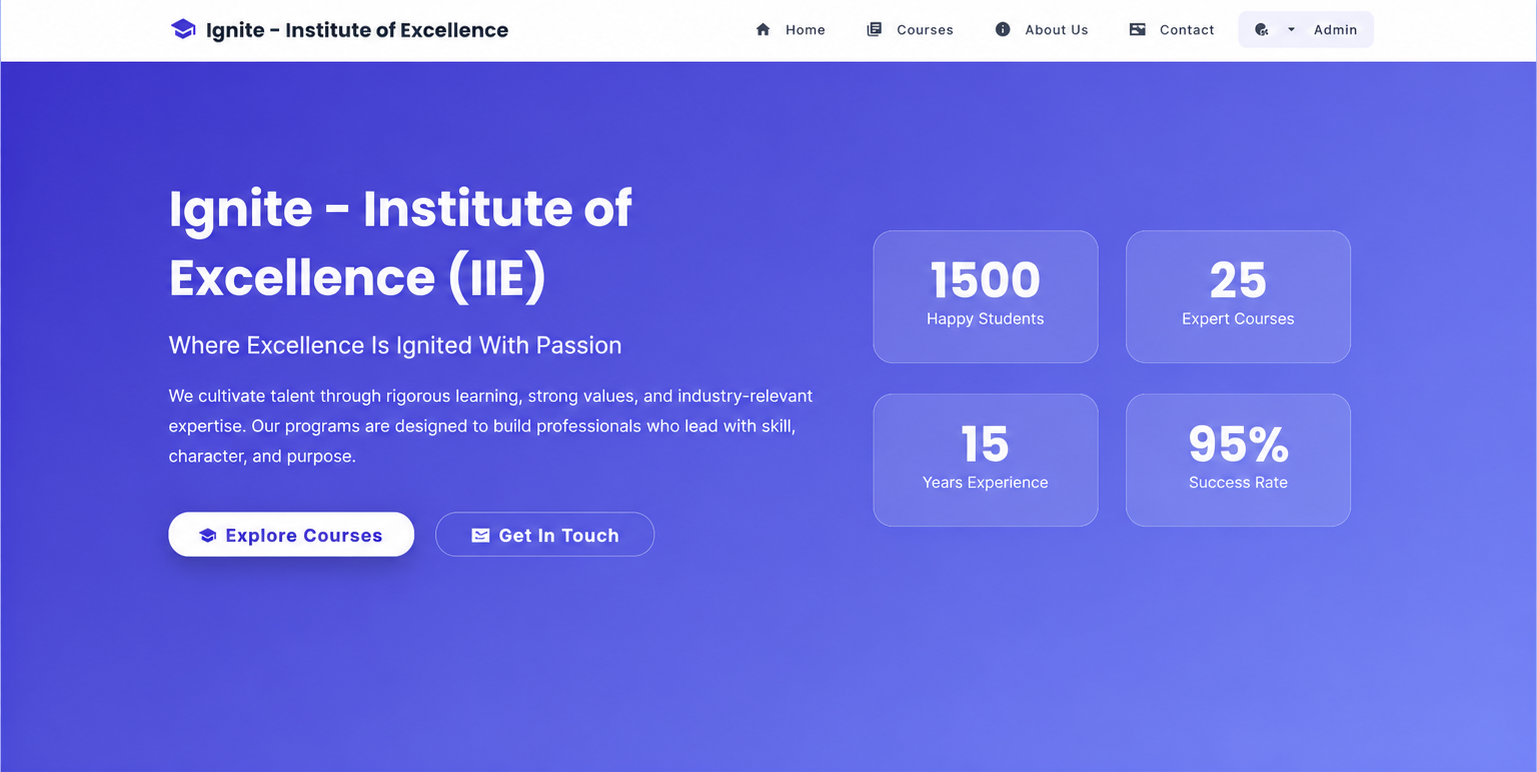
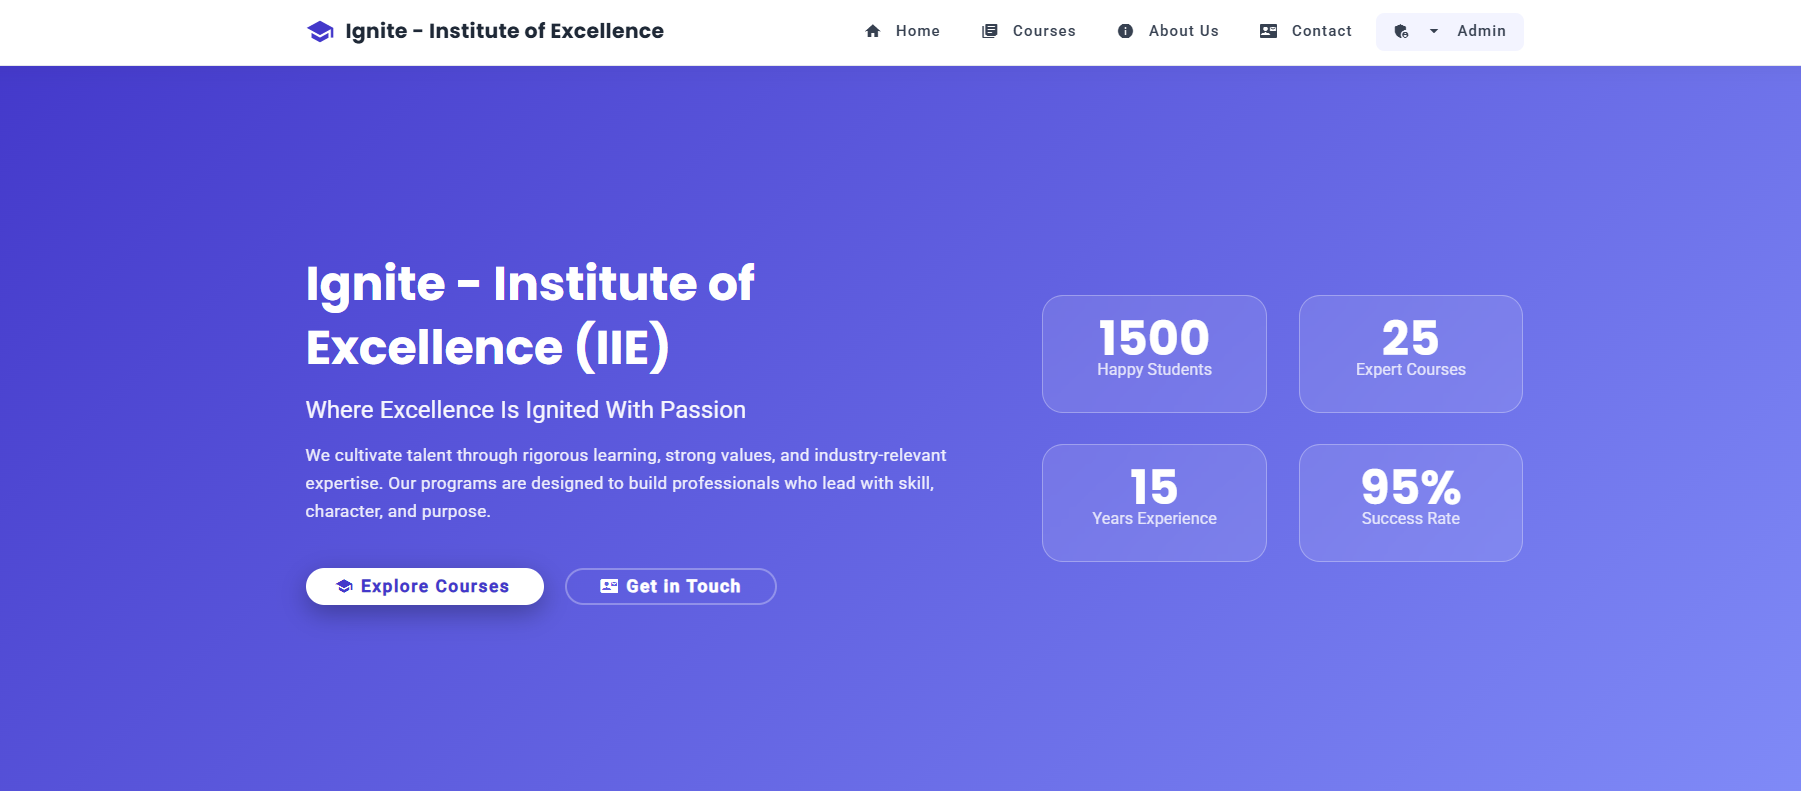
Fixed mobile layout

diff --git a/src/components/portfolio/Skills.tsx b/src/components/portfolio/Skills.tsx
@@ -31,31 +31,31 @@ const skills = [
   { name: "Postman", icon: SiPostman, color: "text-orange-500" },
 ];
 
-
 const experiences = [
   {
-    year: '2025',
-    title: 'Diploma in Full Stack Java Development (6 Mon)',
-    company: 'Mindscripts Tech, Pune',
+    year: "2025",
+    title: "Diploma in Full Stack Java Development (6 Mon)",
+    company: "Mindscripts Tech, Pune",
     description:
-      'Completed an advanced full-stack program focused on building end-to-end web applications. Designed backend logic, developed interactive UI, implemented RESTful APIs, integrated frontend components with database, and applied MVC architecture in project-based implementations, achieving Grade A.',
+      "Completed an advanced full-stack program focused on building end-to-end web applications. Designed backend logic, developed interactive UI, implemented RESTful APIs, integrated frontend components with database, and applied MVC architecture in project-based implementations, achieving Grade A.",
   },
   {
-    year: '2023',
-    title: 'Web Developer Intern',
-    company: 'Oasis Infobyte, New Delhi (1 month Remote)',
+    year: "2023",
+    title: "Web Developer Intern",
+    company: "Oasis Infobyte, New Delhi (1 month Remote)",
     description:
-      'Built interactive front-end projects including a To-Do List application, Tribute Page, and Calculator using HTML5, CSS3, and JavaScript. Published and managed project repositories using GitHub for version control and collaboration.',
+      "Built interactive front-end projects including a To-Do List application, Tribute Page, and Calculator using HTML5, CSS3, and JavaScript. Published and managed project repositories using GitHub for version control and collaboration.",
   },
   {
-    year: '2019 - 2023',
-    title: 'B.Tech in Computer Science and Engineering',
+    year: "2019 - 2023",
+    title: "B.Tech in Computer Science and Engineering",
     company:
-      'CSMSS, Chh. Shahu College of Engineering, Chhatrapati Sambhajinagar',
+      "CSMSS, Chh. Shahu College of Engineering, Chhatrapati Sambhajinagar",
     description:
-      'Graduated with CGPA 8.8/10, strengthening programming fundamentals and core computer science concepts including Data Structures, DBMS, Operating Systems, and Computer Networks.',
+      "Graduated with CGPA 8.8/10, strengthening programming fundamentals and core computer science concepts including Data Structures, DBMS, Operating Systems, and Computer Networks.",
   },
 ];
+
 export function Skills() {
   const [sectionRef, isVisible] = useScrollReveal<HTMLElement>({
     threshold: 0.15,
@@ -65,11 +65,11 @@ export function Skills() {
     <section
       ref={sectionRef}
       id="skills"
-      className="py-28 relative overflow-hidden bg-[hsl(var(--section-4))]"
+      className="relative overflow-hidden bg-[hsl(var(--section-4))] py-16 sm:py-20 lg:py-28"
     >
       <div className="absolute inset-0 bg-gradient-to-b from-muted/40 to-transparent pointer-events-none" />
 
-      <div className="relative z-10 max-w-7xl mx-auto px-6 lg:px-16">
+      <div className="relative z-10 max-w-7xl mx-auto px-4 sm:px-6 lg:px-16">
         <div
           className={cn(
             "transition-all duration-700",
@@ -78,70 +78,77 @@ export function Skills() {
               : "opacity-0 translate-y-10"
           )}
         >
-
-
           {/* ================= SKILLS ================= */}
-          <div className="mb-28">
 
-            <div className="text-center mb-12">
+          <div className="mb-20 lg:mb-28">
+
+            <div className="text-center mb-10 lg:mb-12">
+
               <p className="text-sm text-primary font-medium uppercase tracking-wider mb-2">
                 My Skills & Journey
               </p>
 
-
-              <h3 className="text-3xl font-bold">
+              <h3 className="text-2xl sm:text-3xl lg:text-4xl font-bold">
                 Technical Stack & Expertise
               </h3>
-              <p className="mt-3 text-muted-foreground">
+
+              <p className="mt-3 text-sm sm:text-base text-muted-foreground max-w-2xl mx-auto">
                 Technologies and tools I use to build modern, scalable full-stack applications.
               </p>
+
             </div>
 
             <div
               className="
-      max-w-[2000px] mx-auto
-      rounded-[32px]
-      border border-white/10
-      bg-background/40
-      backdrop-blur-2xl
-      p-8 lg:p-12
-      shadow-[0_20px_80px_rgba(0,0,0,0.1)]
-    "
+                max-w-[2000px]
+                mx-auto
+                rounded-3xl
+                border border-white/10
+                bg-background/40
+                backdrop-blur-2xl
+                p-4 sm:p-6 lg:p-12
+                shadow-[0_20px_80px_rgba(0,0,0,0.1)]
+              "
             >
-              <div className="grid grid-cols-2 sm:grid-cols-3 md:grid-cols-4 gap-6">
+
+              <div className="grid grid-cols-2 sm:grid-cols-3 lg:grid-cols-4 gap-3 sm:gap-5 lg:gap-6">
 
                 {skills.map((skill) => {
+
                   const Icon = skill.icon;
 
                   return (
                     <div
                       key={skill.name}
                       className="
-              group
-              rounded-2xl
-              border border-white/10
-              bg-background/40
-              backdrop-blur-md
-              p-6
-              flex flex-col items-center
-              justify-center
-              transition-all duration-300
-              hover:-translate-y-2
-              hover:border-primary/30
-              hover:bg-primary/5
-              hover:shadow-[0_10px_30px_rgba(59,130,246,0.15)]
-            "
+                        group
+                        rounded-2xl
+                        border border-white/10
+                        bg-background/40
+                        backdrop-blur-md
+                        p-4 sm:p-5 lg:p-6
+                        flex flex-col
+                        items-center
+                        justify-center
+                        transition-all
+                        duration-300
+                        hover:-translate-y-2
+                        hover:border-primary/30
+                        hover:bg-primary/5
+                        hover:shadow-[0_10px_30px_rgba(59,130,246,0.15)]
+                      "
                     >
                       <Icon
                         className={`
-                text-5xl mb-4
-                ${skill.color}
-                transition-all duration-300
-                group-hover:scale-110
-              `}
+                          text-4xl sm:text-5xl
+                          mb-3 sm:mb-4
+                          ${skill.color}
+                          transition-all duration-300
+                          group-hover:scale-110
+                        `}
                       />
 
-                      <span className="text-sm font-medium text-center">
+                      <span className="text-xs sm:text-sm font-medium text-center">
                         {skill.name}
                       </span>
                     </div>
@@ -154,53 +161,69 @@ export function Skills() {
           </div>
 
           {/* ================= JOURNEY ================= */}
+
           <div>
-            <h3 className="text-3xl font-semibold text-center mb-16">
+
+            <h3 className="text-2xl sm:text-3xl font-semibold text-center mb-10 sm:mb-16">
               My Journey
             </h3>
 
             <div className="relative max-w-6xl mx-auto">
 
+              {/* Timeline Line */}
               <div className="hidden md:block absolute left-1/2 -translate-x-1/2 top-0 bottom-0 w-0.5 bg-black/20 dark:bg-border" />
 
-              <div className="space-y-20">
+              <div className="space-y-8 sm:space-y-12 lg:space-y-20">
+
                 {experiences.map((exp, index) => {
+
                   const isLeft = index % 2 === 0;
 
                   return (
-                    <div key={index} className="relative flex items-center group">
+
+                    <div
+                      key={index}
+                      className="relative flex items-center group"
+                    >
+
+                      {/* Timeline Dot */}
 
                       <div className="hidden md:block absolute left-1/2 -translate-x-1/2 w-4 h-4 bg-primary rounded-full z-10 transition-all duration-300 group-hover:scale-125 group-hover:shadow-[0_0_20px_rgba(99,102,241,0.8)]" />
 
                       <div
                         className={cn(
-                          "w-full md:w-[46%] bg-background/95  border border-black/30 dark:border-border/30  rounded-[26px] p-10 shadow-md transition-all duration-500 hover:-translate-y-2 hover:border-primary/40 hover:shadow-[0_20px_60px_rgba(99,102,241,0.12)]",
+                          "w-full md:w-[46%] bg-background/95 border border-black/30 dark:border-border/30 rounded-2xl sm:rounded-[26px] p-5 sm:p-7 lg:p-10 shadow-md transition-all duration-500 hover:-translate-y-2 hover:border-primary/40 hover:shadow-[0_20px_60px_rgba(99,102,241,0.12)]",
                           isLeft ? "mr-auto" : "ml-auto"
                         )}
                       >
+
                         <span className="text-primary font-semibold text-sm tracking-wide">
                           {exp.year}
                         </span>
 
-                        <h4 className="text-lg font-semibold mt-3">
+                        <h4 className="text-base sm:text-lg font-semibold mt-3">
                           {exp.title}
                         </h4>
 
-                        <p className="text-sm text-secondary mt-2">
+                        <p className="text-xs sm:text-sm text-secondary mt-2">
                           {exp.company}
                         </p>
 
-                        <p className="text-sm text-muted-foreground leading-relaxed mt-4 text-justify">
+                        <p className="text-xs sm:text-sm text-muted-foreground leading-relaxed mt-4 text-left sm:text-justify">
                           {exp.description}
                         </p>
+
                       </div>
 
                     </div>
+
                   );
                 })}
+
               </div>
 
             </div>
+
           </div>
 
         </div>

diff --git a/src/components/portfolio/Projects.tsx b/src/components/portfolio/Projects.tsx
@@ -94,11 +94,9 @@ export function Projects() {
     <section
       ref={sectionRef}
       id="projects"
-      className="py-24 relative overflow-hidden bg-[hsl(var(--section-3))] py-28"
-    >
+      className="relative overflow-hidden bg-[hsl(var(--section-3))] py-16 sm:py-20 lg:py-28"    >
       {/* Section Header */}
-      <div className="max-w-8xl mx-auto px-4 lg:px-10 relative z-10">
-
+      <div className="max-w-7xl mx-auto px-4 sm:px-6 lg:px-10 relative z-10">
         <div
           className={cn(
             'text-center mb-14 transition-all duration-700',
@@ -108,7 +106,7 @@ export function Projects() {
           <p className="text-sm text-primary font-medium uppercase tracking-wider mb-2">
             My Work
           </p>
-          <h2 className="text-4xl font-bold">
+          <h2 className="text-3xl sm:text-4xl lg:text-5xl font-bold">
             Featured Projects
           </h2>
           <p className="mt-4 text-[17px] md:text-lg leading-relaxed text-muted-foreground max-w-2xl mx-auto">
@@ -117,33 +115,31 @@ export function Projects() {
         </div>
 
         {/* Equal Grid Layout */}
-        <div className="space-y-14">
+        <div className="space-y-8 lg:space-y-14">
           {projects.map((project, index) => (
             <div
               key={project.id}
               className={cn(
-                "h-[330px] w-full group flex flex-col lg:flex-row overflow-hidden rounded-2xl border border-primary/20 bg-background/70 backdrop-blur-xl transition-all duration-500 hover:-translate-y-2 hover:border-primary/40 hover:shadow-[0_30px_80px_rgba(99,102,241,0.15)]",
+                "w-full min-h-[320px] group flex flex-col lg:flex-row overflow-hidden rounded-2xl border border-primary/20 bg-background/70 backdrop-blur-xl transition-all duration-500 hover:-translate-y-2 hover:border-primary/40 hover:shadow-[0_30px_80px_rgba(99,102,241,0.15)]",
                 isVisible ? "opacity-100 translate-y-0" : "opacity-0 translate-y-10"
               )}
               style={{ transitionDelay: `${index * 120}ms` }}
             >
 
-              <div className="lg:w-[60%] flex flex-col">
+              <div className="w-full lg:w-[50%] flex">
                 <img
                   src={project.image}
                   alt={project.title}
-                  className="w-full h-full object-cover "
-                />
+                  className="w-full h-56 sm:h-72 lg:h-full object-cover" />
               </div>
 
               {/* Right Content */}
-              <div className="lg:w-[85%] p-8 flex flex-col justify-center">
-
-                <h3 className="text-2xl font-bold mb-4 text-primary">
+              <div className="w-full lg:w-[55%] p-5 sm:p-6 lg:p-8 flex flex-col justify-center">
+                <h3 className="text-xl sm:text-2xl lg:text-3xl font-bold mb-3 text-primary">
                   {project.title}
                 </h3>
 
-                <p className="text-muted-foreground leading-relaxed mb-5">
+                <p className="text-sm sm:text-base text-muted-foreground leading-relaxed mb-5">
                   {project.description}
                 </p>
 
@@ -153,7 +149,7 @@ export function Projects() {
                     <Badge
                       key={tag}
                       variant="secondary"
-                      className="rounded-full"
+                      className="rounded-full text-xs sm:text-sm px-2 py-1"
                     >
                       {tag}
                     </Badge>
@@ -161,7 +157,7 @@ export function Projects() {
                 </div>
 
                 {/* Highlights */}
-                <div className="space-y-3 mb-6">
+                <div className="space-y-2 mb-6 text-sm sm:text-base">
                   {project.highlights.map((item) => (
                     <div
                       key={item}
@@ -174,26 +170,26 @@ export function Projects() {
                 </div>
 
                 {/* Links */}
-                <div className="flex items-center gap-6 mt-auto">
-                  <a
-                    href={project.githubUrl}
-                    target="_blank"
-                    rel="noopener noreferrer"
-                    className="flex items-center gap-2 text-primary hover:underline"
-                  >
-                    <Github className="h-4 w-4" />
-                    GitHub
-                  </a>
+                <div className="flex flex-col sm:flex-row sm:items-center gap-4 mt-auto">                  <a
+                  href={project.githubUrl}
+                  target="_blank"
+                  rel="noopener noreferrer"
+                  className="flex items-center gap-2 text-primary hover:underline"
+                >
+                  <Github className="h-4 w-4" />
+                  GitHub
+                </a>
 
                   {project.liveUrl !== "#" && (
                     <a
                       href={project.liveUrl}
                       target="_blank"
                       rel="noopener noreferrer"
-                      className="flex items-center gap-2 text-muted-foreground hover:text-primary transition-colors"
+                      className="flex items-center gap-2 text-primary hover:text-green-500 transition-colors"
                     >
                       <ExternalLink className="h-4 w-4" />
-                      Live Demo (Just Wait for 1-2 minutes to load the backend after inactivity)
+
+                      Live Demo
                     </a>
                   )}
                 </div>